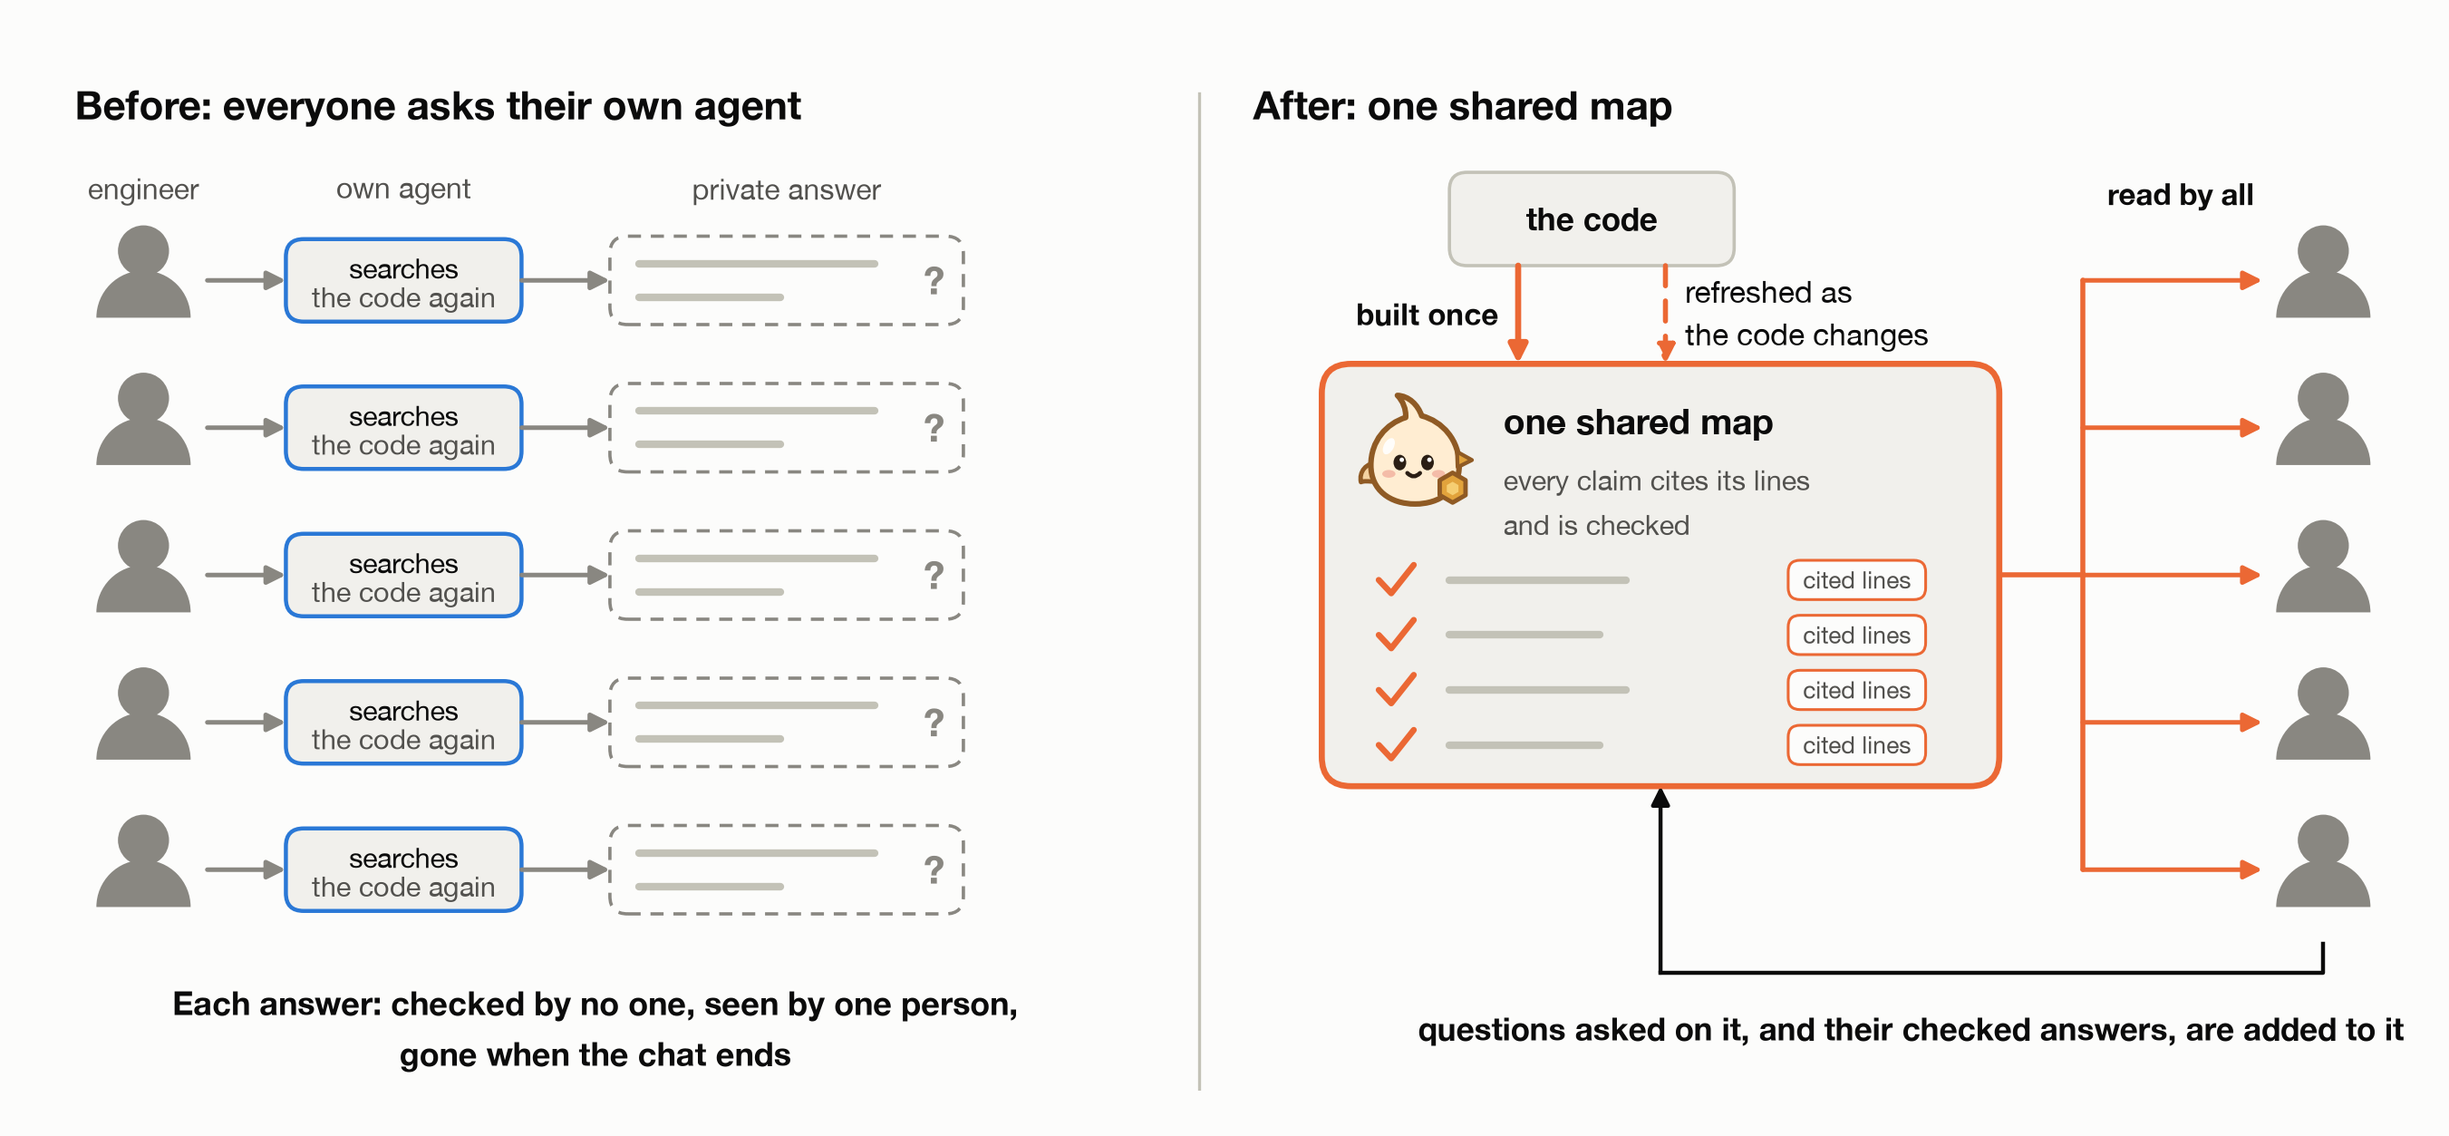
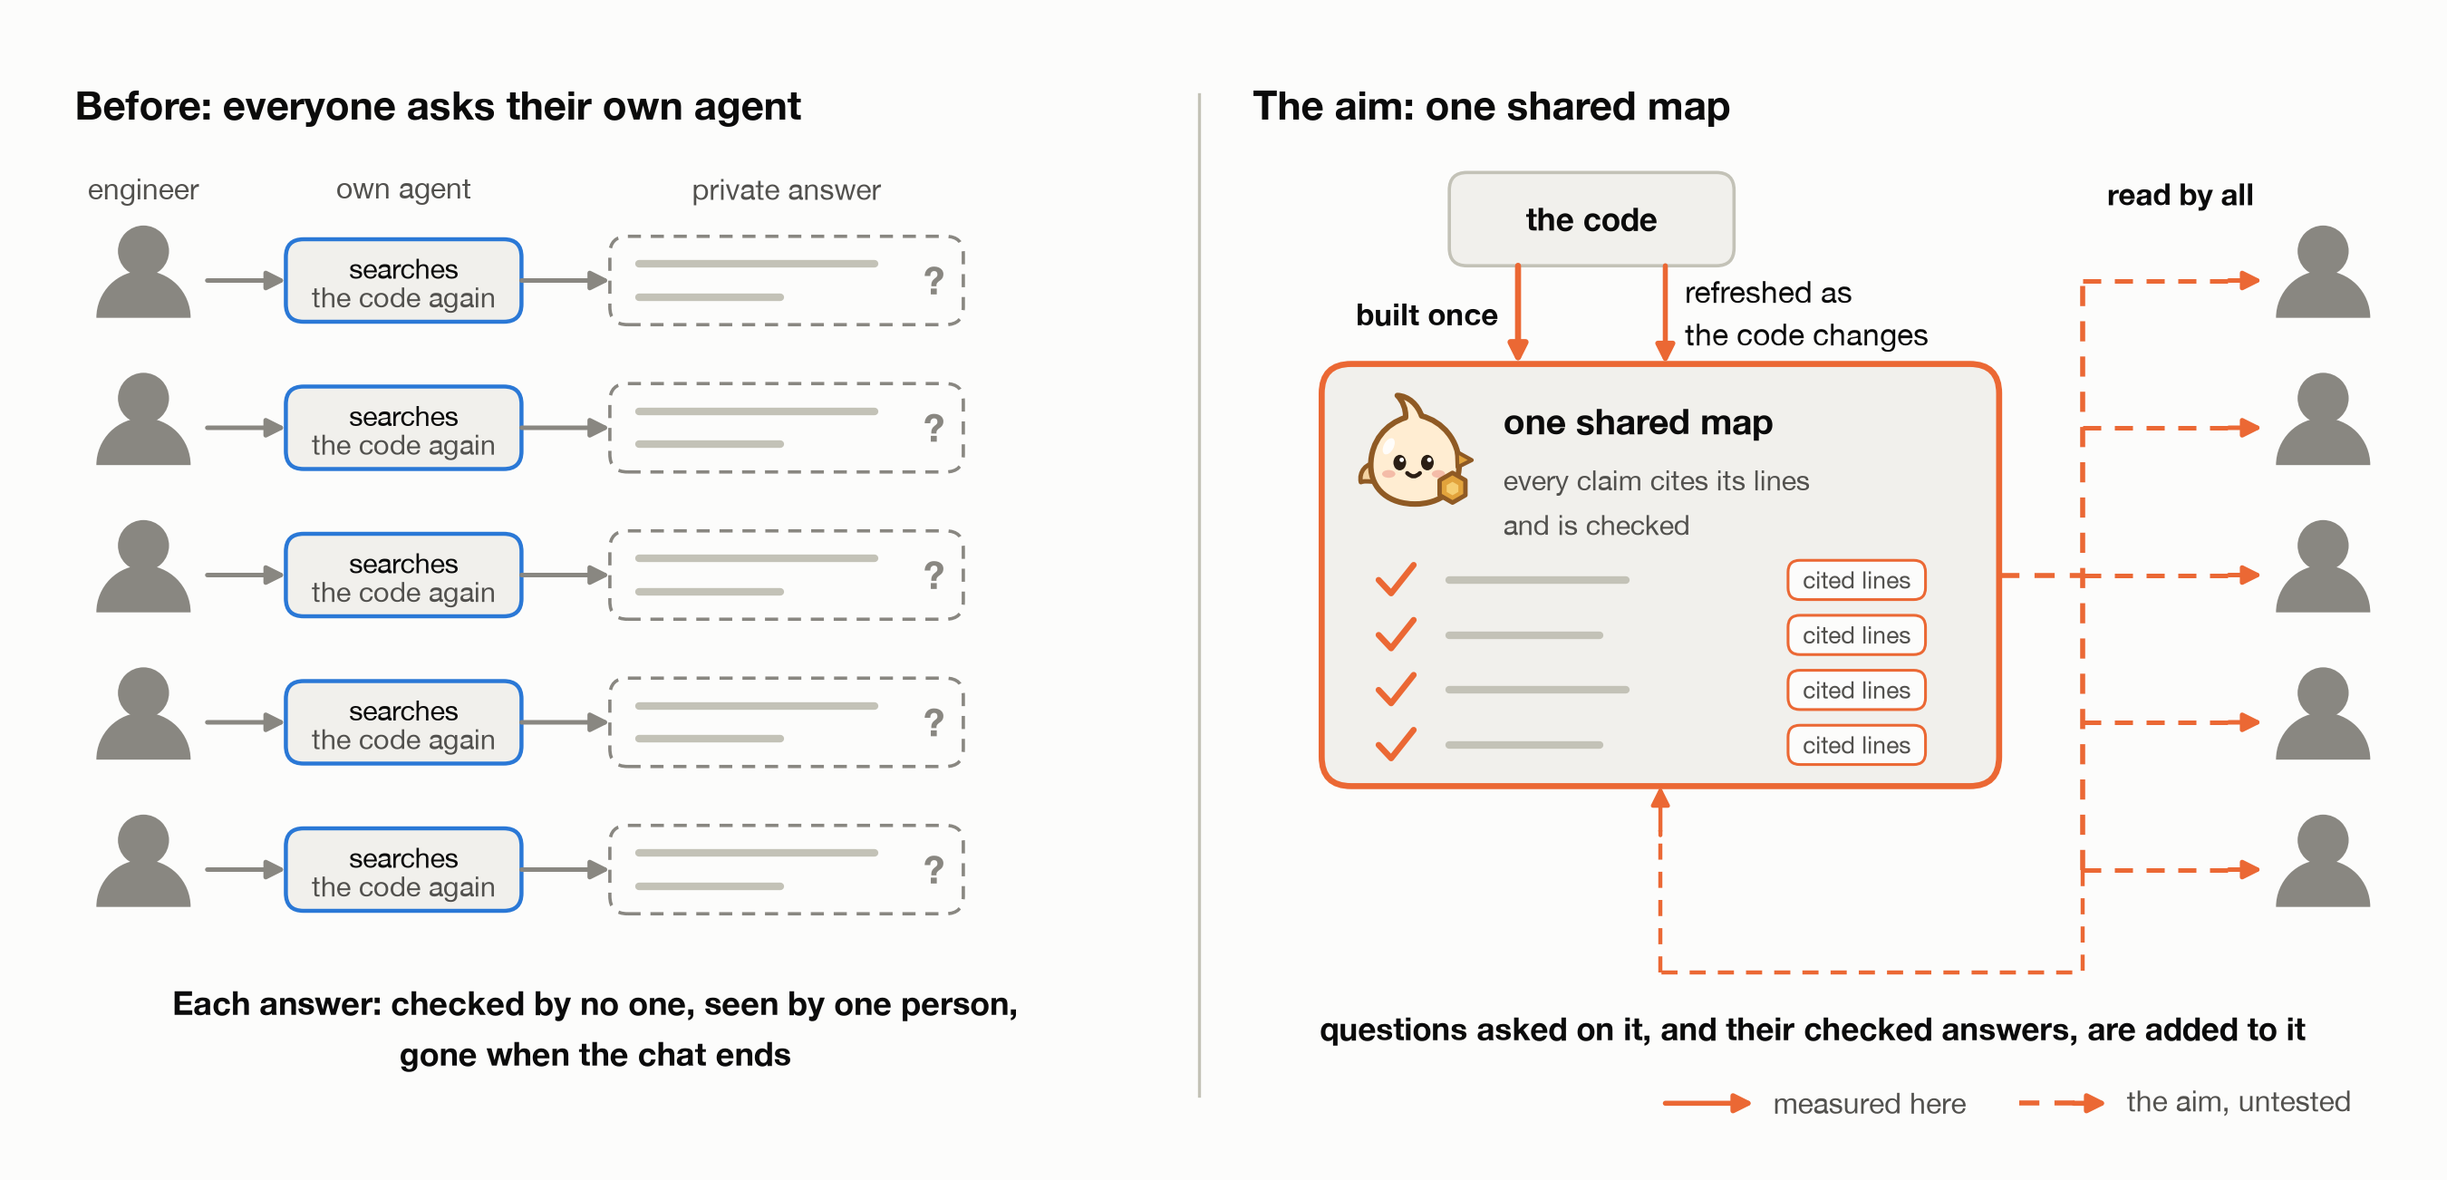
Honeyguide post: round 5 applied (Han accepted all): title (b) 'can a team keep one checked map of its codebase?', one-liner hedged and used once, 'can't be shared yet' near the top, A/B/C rows with evidence, 'not measurably' + why/how lead, auto-memory quotes; team-before-after redrawn as 'The aim'

diff --git a/_posts/2026-12-12-honeyguide-agent-that-learns-a-codebase.md b/_posts/2026-12-12-honeyguide-agent-that-learns-a-codebase.md
@@ -1,18 +1,17 @@
 ---
-title: "Agentic Workflows [1]: Honeyguide: turning codebase exploration into shared, checked knowledge"
+title: "Agentic Workflows [1]: Honeyguide: can a team keep one checked map of its codebase?"
 date: 2026-11-16 09:00:00 -0800
 categories: [Agentic Workflows, Code Understanding]
 tags: [agentic-workflow, claude-code, subagents, coding-agents, code-understanding, evaluation]
 description: >-
   I set out to show that a coding agent answers questions about a repo better
-  with a prebuilt map. On the repo I tested, it doesn't, measurably. What the experiments
-  pointed to instead is a team problem: every engineer's agent works out the
-  same code again, in private, and nobody checks or keeps the answer.
-  Honeyguide turns that exploration into shared, checked knowledge that stays
-  tied to the source: a map where every claim cites its lines, a separate
+  with a prebuilt map. On the repo I tested, it doesn't measurably. That left a
+  team problem: every engineer's agent works out the same code again, in
+  private, and nobody checks or keeps the answer. Honeyguide is my attempt at
+  one checked map a team could keep: every claim cites its lines, a separate
   Checker reads them, and a refresh keeps it current. This post shows how the
-  checking and the upkeep work and what they cost; whether a team saves time
-  is still untested.
+  checking and the upkeep work and what they cost. Sharing the map isn't built
+  yet, and whether a team saves time is untested.
 published: false
 ---
 
@@ -24,11 +23,11 @@ My hypothesis was that it would answer better if it started from a **map**: a do
 
 The experiments took away the reason I'd built it, and what they left standing was a different problem, one they don't measure. Picture a team. Five engineers join a project in the same month, and each asks their own agent how training is set up or what happens when a checkpoint loads. That's five explorations of the same code and five answers nobody else sees or reviews. If one is subtly wrong, the person who got it carries the mistake into their next change, and the next person with the same question pays to explore again.
 
-So Honeyguide now aims at that: it turns codebase exploration into shared, checked knowledge that stays tied to the source. It builds a map of the repo (an overview, the modules and the main flows through the code, every claim citing its lines and re-read by a separate Checker), then keeps it current. You read the map in a browser, highlight anything that confuses you, and ask. The answer comes back on the map, with its own pointers into the code, where the next reader can find it.
+So Honeyguide now aims at that: turning codebase exploration into shared, checked knowledge that stays tied to the source. It builds a map of the repo (an overview, the modules and the main flows through the code, every claim citing its lines and re-read by a separate Checker), then keeps it current. You read the map in a browser, highlight anything that confuses you, and ask. The answer comes back on the map, with its own pointers into the code, where the next reader can find it.
 
 The project's name comes from a bird. In Africa, the greater honeyguide leads people to wild bees' nests: the people subdue the bees and open the nest for the honey, and the bird eats the wax ([Spottiswoode and Wood, 2023](https://par.nsf.gov/servlets/purl/10524235)). It knows where the nest is, and you do the work of getting in. That's the job I wanted done for a codebase: something that has already been through the repo and can lead me to the lines that answer my question.
 
-What this post shows is the checking and the upkeep: how the map keeps its claims honest, and what keeping it current costs. Whether a team actually saves time with it, I haven't measured.
+What this post shows is the checking and the upkeep: how the map keeps its claims honest, and what keeping it current costs. The map can't be shared yet: it lives on the machine that built it ([§2](#what-honeyguide-is)). Whether a team actually saves time with it, I haven't measured.
 
 ### The short version {#the-short-version}
 
@@ -36,7 +35,7 @@ What this post shows is the checking and the upkeep: how the map keeps its claim
 
 **Are ad-hoc answers worse?** ([§5](#are-ad-hoc-answers-worse)) Not measurably. A Checker that finds its own evidence judged 2.0% of the claims in the pilot's ad-hoc answers not supported or wrong, against 1.0% of a map's unchecked claims, and the interval on the difference includes zero. The errors that do occur are subtle.
 
-**The problem it pointed to** ([§1](#the-team-problem)). Nothing keeps what an agent works out. Of three problems a map could address, finding code is already done well by an agent searching it, repeated reconstruction across a team is promising but unmeasured, and trustworthy, maintained knowledge is where this post's evidence is.
+**What that leaves: a team problem** ([§1](#the-team-problem)). Nothing keeps what an agent works out. Of three problems a map could address, finding code is already done well by an agent searching it, repeated reconstruction across a team is argued but unmeasured, and trustworthy, maintained knowledge is where this post's evidence is.
 
 **What Honeyguide is** ([§2](#what-honeyguide-is)). Five roles in Claude Code: a 🗺 **Cartographer** writes the map, an 🔦 **Investigator** and a 🧵 **Tracer** answer questions on it, a ✅ **Checker** re-reads each claim against its cited lines, and the 🧭 **Guide**, the session you're in, routes the questions.
 
@@ -108,7 +107,7 @@ A shallow clone won't do: `git blame` needs the history, and the script stops if
 
 ### Table of Contents
 
-[The short version](#the-short-version) above has the findings without the details.
+[The short version](#the-short-version) above has the findings without the details, in the order I ran into them. The sections below start from the problem and the tool, then the tests.
 
 1. [The team problem](#the-team-problem)
 2. [What Honeyguide is](#what-honeyguide-is)
@@ -130,17 +129,17 @@ Ask an agent about an unfamiliar repo and most of the work goes into finding thi
 
 Where it falls short is across a team. Three things go missing: nobody else sees the answer, nobody reviews it, and it's gone when the chat closes, so the next engineer's agent works the same code out again. A shared map is meant to fix all three.
 
-![Two panels. Before: five engineers each send their own agent to search the code again, and each gets a private answer, checked by no one, seen by one person, gone when the chat ends. After: one shared map, built once from the code and refreshed as the code changes, where every claim cites its lines and is checked; all five read it, and questions asked on it, with their checked answers, are added to it](/assets/picture/2026-12-12-honeyguide-agent-that-learns-a-codebase/team-before-after-light.png){: .light width="1000" height="464" }
-![Two panels. Before: five engineers each send their own agent to search the code again, and each gets a private answer, checked by no one, seen by one person, gone when the chat ends. After: one shared map, built once from the code and refreshed as the code changes, where every claim cites its lines and is checked; all five read it, and questions asked on it, with their checked answers, are added to it](/assets/picture/2026-12-12-honeyguide-agent-that-learns-a-codebase/team-before-after-dark.png){: .dark width="1000" height="464" }
-_Five private answers that nobody checks and nobody keeps, against one map that's checked, kept current and read by everyone._
+![Two panels. Before: five engineers each send their own agent to search the code again, and each gets a private answer, checked by no one, seen by one person, gone when the chat ends. The aim: one shared map, built once from the code and refreshed as the code changes, where every claim cites its lines and is checked; dashed arrows, marked as the untested aim, lead from it to all five engineers, and questions asked on it, with their checked answers, are added to it](/assets/picture/2026-12-12-honeyguide-agent-that-learns-a-codebase/team-before-after-light.png){: .light width="1000" height="482" }
+![Two panels. Before: five engineers each send their own agent to search the code again, and each gets a private answer, checked by no one, seen by one person, gone when the chat ends. The aim: one shared map, built once from the code and refreshed as the code changes, where every claim cites its lines and is checked; dashed arrows, marked as the untested aim, lead from it to all five engineers, and questions asked on it, with their checked answers, are added to it](/assets/picture/2026-12-12-honeyguide-agent-that-learns-a-codebase/team-before-after-dark.png){: .dark width="1000" height="482" }
+_Five private answers that nobody checks and nobody keeps, against one map that's checked and kept current. The checking and the refresh are what this post measures; a team reading one map is the aim, still untested._
 
 A map could address three problems, and the evidence for each is very uneven:
 
 | Problem | What the evidence says | Where |
 | --- | --- | --- |
 | A. Code discovery: finding the code that answers a question | little to gain: an agent searching with plain text already does it | [§4](#does-an-agent-need-the-map) |
-| B. Repeated reconstruction: each engineer's agent working out the same code again | promising, not measured | this section |
-| C. Trustworthy, maintained knowledge: claims checked against the source and kept current | measured: the Checker catches citations too narrow to show a claim and a wrong value; a refresh costs about half a rebuild across a rewrite and a fifth to a quarter after an ordinary day | [§3](#how-it-keeps-itself-honest), [§5](#are-ad-hoc-answers-worse), [§6](#what-a-shared-map-costs-to-keep) |
+| B. Repeated reconstruction: each engineer's agent working out the same code again | argued, not measured: exploring is cheap for one person ($0.074 a question in the pilot) but redone by everyone who asks; whether engineers' questions overlap, and whether they'd read each other's answers, is untested | this section, [§4](#does-an-agent-need-the-map) |
+| C. Trustworthy, maintained knowledge: claims checked against the source and kept current | measured: the Checker turned down 102 of 260 claims, most for citing too few lines, and passed one wrong value; ad-hoc answers weren't measurably less accurate (2.0% of claims not supported or wrong, against 1.0% for a map); a refresh costs about half a rebuild across a rewrite and a fifth to a quarter after an ordinary day | [§3](#how-it-keeps-itself-honest), [§5](#are-ad-hoc-answers-worse), [§6](#what-a-shared-map-costs-to-keep) |
 
 This post shows C and argues B, and the argument has assumptions. It assumes the five engineers need the same knowledge, when the overlap may be partial, and that reading a map can stand in for reading the code, when working the code out yourself builds an understanding a summary doesn't. A shared map's worth depends on **reuse** (do people read what others asked), **trust** (can they believe it), **change** (does it stay current) and **adoption** (does a team use it at all). This post measures trust ([§3](#how-it-keeps-itself-honest), [§5](#are-ad-hoc-answers-worse)) and change ([§6](#what-a-shared-map-costs-to-keep)). Reuse and adoption are the big unknowns: I'm one person ([§7](#limits-and-large-codebases)).
 
@@ -872,9 +871,9 @@ What I think a large codebase needs, as directions and not results:
 
 ### What I learned {#what-i-learned}
 
-I started out to show that a prebuilt map makes an agent answer questions about code more accurately. On the repo and questions I tested, it didn't measurably: exploring was already very good, and the map added cost.
+I started out to show that a prebuilt map makes an agent answer questions about code more accurately. On the repo and questions I tested, it didn't measurably. Exploring was already very good, the map's one lead (five why/how questions, graded by GPT-6) was a hint at most, and the map added cost.
 
-What the experiments left is a problem they didn't test: nothing keeps what an agent works out. Each conversation starts another investigation, and its explanation is hard for anyone else to find, check or reuse. Honeyguide treats that understanding as something a team builds and maintains: claims tied to their source lines, checked against them and refreshed as the code changes, with questions and answers added to the same record.
+What the experiments left is a problem they didn't test: nothing keeps what an agent works out. Claude Code's own auto memory, the notes it saves for itself between sessions, is built not to: it "skips anything it can derive from the codebase, such as architecture, file paths, or debugging fixes", and "Auto memory is machine-local" ([Claude Code docs, memory](https://code.claude.com/docs/en/memory)). Each conversation starts another investigation, and its explanation is hard for anyone else to find, check or reuse. Honeyguide treats that understanding as something a team builds and maintains: claims tied to their source lines, checked against them and refreshed as the code changes, with questions and answers added to the same record.
 
 What I've shown is parts of that mechanism. I haven't shown its value to a team: that Honeyguide saves engineers time, cuts duplicated investigation, or improves anyone's long-term understanding of the code. Those are the next questions.
 
@@ -918,7 +917,7 @@ The terms this post leans on; anything not listed is defined where it first appe
 
 Sources checked on 2026-11-15 and 2026-11-16; Claude Code's docs are for CLI 2.1.325. Quotes are given where the post cites them.
 
-- Anthropic, Claude Code docs: [Subagents](https://code.claude.com/docs/en/sub-agents) (introduction; §2); [Glossary](https://code.claude.com/docs/en/glossary), Skill, Plugin and "Non-interactive mode … Formerly called headless mode" (§2, §4); [Memory](https://code.claude.com/docs/en/memory), `CLAUDE.md` and `/init` (§1); [CLI reference](https://code.claude.com/docs/en/cli-reference), the `--tools` row: the default set on macOS, Linux and WSL leaves out Glob and Grep (§4); [Non-interactive mode](https://code.claude.com/docs/en/headless), the `--bare` section (§4); [Costs](https://code.claude.com/docs/en/costs), which "computes the dollar figure locally from token counts at list price", and [Agent SDK, cost tracking](https://code.claude.com/docs/en/agent-sdk/cost-tracking), the 1-hour cache within a plan's included usage (Setup, §4); [Code intelligence plugins](https://code.claude.com/docs/en/plugins/code-intelligence), "finds definitions and references by symbol instead of by text search", through an `LSP` tool that is read-only (§7).
+- Anthropic, Claude Code docs: [Subagents](https://code.claude.com/docs/en/sub-agents) (introduction; §2); [Glossary](https://code.claude.com/docs/en/glossary), Skill, Plugin and "Non-interactive mode … Formerly called headless mode" (§2, §4); [Memory](https://code.claude.com/docs/en/memory), `CLAUDE.md`, `/init` and `/doctor prompt-audit` (§1), auto memory (what I learned); [CLI reference](https://code.claude.com/docs/en/cli-reference), the `--tools` row: the default set on macOS, Linux and WSL leaves out Glob and Grep (§4); [Non-interactive mode](https://code.claude.com/docs/en/headless), the `--bare` section (§4); [Costs](https://code.claude.com/docs/en/costs), which "computes the dollar figure locally from token counts at list price", and [Agent SDK, cost tracking](https://code.claude.com/docs/en/agent-sdk/cost-tracking), the 1-hour cache within a plan's included usage (Setup, §4); [Code intelligence plugins](https://code.claude.com/docs/en/plugins/code-intelligence), "finds definitions and references by symbol instead of by text search", through an `LSP` tool that is read-only (§7).
 - Anthropic, [Models overview](https://platform.claude.com/docs/en/about-claude/models/overview) — Claude Opus 5.5: "Reliable knowledge cutoff | Jun 2026" and "Training data cutoff | Jun 2026", with no day given. Cited in Setup and §4.
 - Anthropic, [Prompt caching](https://platform.claude.com/docs/en/build-with-claude/prompt-caching), Pricing — 1-hour cache writes at 2x the base input price; "Cache hits and refreshes on Claude Opus 5.5 and Claude Sonnet 5.5 are priced at 0.05x the base input price". Cited in §4.
 - aider, [Repository map](https://aider.chat/docs/repomap.html) — "a graph ranking algorithm, computed on a graph where each source file is a node and edges connect files which have dependencies", sized by `--map-tokens`; aider's [blog post of 2023-10-22](https://aider.chat/2023/10/22/repomap.html): "aider uses tree sitter to build the map". Cited in §1 and §7.
